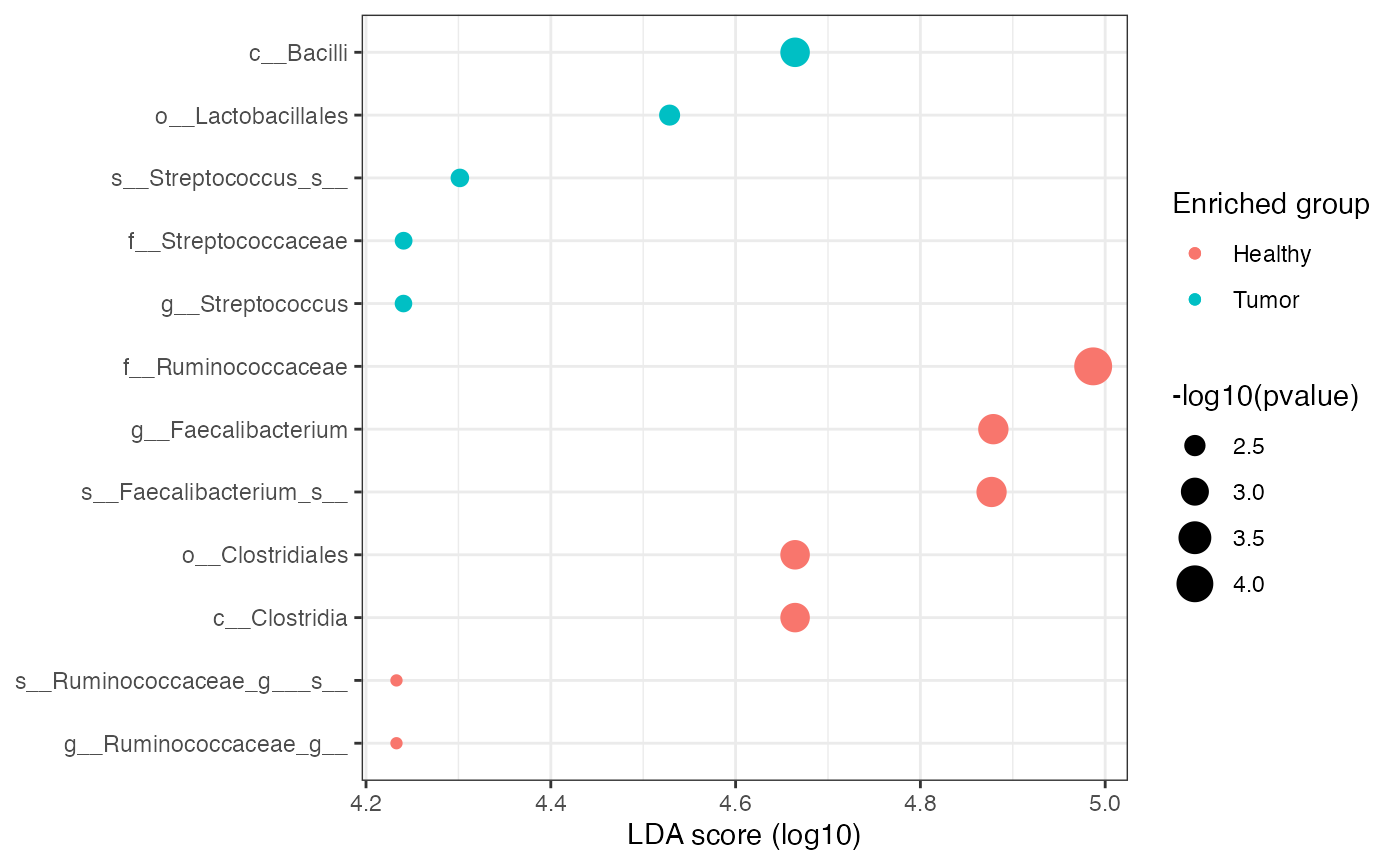
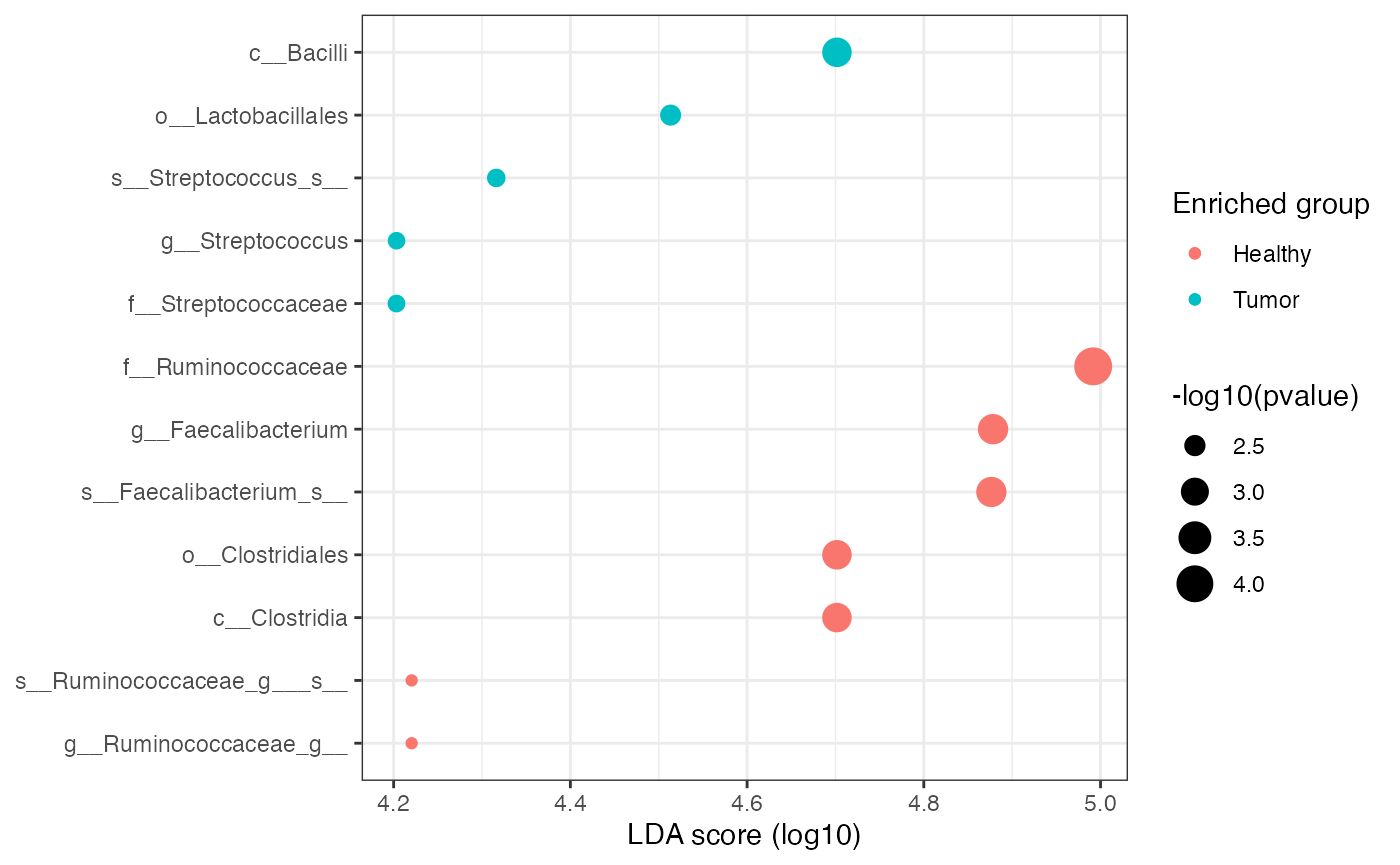
Built site for microbiomeMarker: 0.99.0@a800379

diff --git a/articles/microbiomeMarker-vignette.html b/articles/microbiomeMarker-vignette.html
@@ -440,12 +440,12 @@ fold-change between the sample and the reference.</li>
 <span class="co">#&gt; marker5                                                                k__Bacteria|p__Firmicutes|c__Clostridia|o__Clostridiales</span>
 <span class="co">#&gt; marker6                      k__Bacteria|p__Firmicutes|c__Clostridia|o__Clostridiales|f__Ruminococcaceae|g__Ruminococcaceae_g__</span>
 <span class="co">#&gt;         enrich_group   ef_lda       pvalue         padj</span>
-<span class="co">#&gt; marker1      Healthy 4.987011 7.154793e-05 7.154793e-05</span>
-<span class="co">#&gt; marker2      Healthy 4.878967 5.914547e-04 5.914547e-04</span>
-<span class="co">#&gt; marker3      Healthy 4.877018 6.043983e-04 6.043983e-04</span>
-<span class="co">#&gt; marker4      Healthy 4.664380 7.176046e-04 7.176046e-04</span>
-<span class="co">#&gt; marker5      Healthy 4.664380 7.176046e-04 7.176046e-04</span>
-<span class="co">#&gt; marker6      Healthy 4.232964 6.990210e-03 6.990210e-03</span></code></pre></div>
+<span class="co">#&gt; marker1      Healthy 4.991692 7.154793e-05 7.154793e-05</span>
+<span class="co">#&gt; marker2      Healthy 4.878362 5.914547e-04 5.914547e-04</span>
+<span class="co">#&gt; marker3      Healthy 4.876454 6.043983e-04 6.043983e-04</span>
+<span class="co">#&gt; marker4      Healthy 4.701696 7.176046e-04 7.176046e-04</span>
+<span class="co">#&gt; marker5      Healthy 4.701696 7.176046e-04 7.176046e-04</span>
+<span class="co">#&gt; marker6      Healthy 4.220377 6.990210e-03 6.990210e-03</span></code></pre></div>
 </div>
 <div id="supervised-machine-learning-methods" class="section level2">
 <h2 class="hasAnchor">
@@ -744,7 +744,7 @@ fold-change between the sample and the reference.</li>
 <span class="co">#&gt;  [95] bit64_4.0.5                 fs_1.5.0                   </span>
 <span class="co">#&gt;  [97] caTools_1.18.2              purrr_0.3.4                </span>
 <span class="co">#&gt;  [99] KEGGREST_1.32.0             ANCOMBC_1.2.2              </span>
-<span class="co">#&gt; [101] nlme_3.1-152                aplot_0.0.6                </span>
+<span class="co">#&gt; [101] nlme_3.1-152                aplot_0.0.7                </span>
 <span class="co">#&gt; [103] compiler_4.1.1              png_0.1-7                  </span>
 <span class="co">#&gt; [105] ggsignif_0.6.2              treeio_1.16.2              </span>
 <span class="co">#&gt; [107] tibble_3.1.4                geneplotter_1.70.0         </span>

diff --git a/reference/run_lefse.html b/reference/run_lefse.html
@@ -146,7 +146,7 @@
   bootstrap_fraction <span class='op'>=</span> <span class='fl'>2</span><span class='op'>/</span><span class='fl'>3</span>,
   wilcoxon_cutoff <span class='op'>=</span> <span class='fl'>0.05</span>,
   multigrp_strat <span class='op'>=</span> <span class='cn'>FALSE</span>,
-  correct <span class='op'>=</span> <span class='fu'><a href='https://rdrr.io/r/base/c.html'>c</a></span><span class='op'>(</span><span class='st'>"0"</span>, <span class='st'>"1"</span>, <span class='st'>"2"</span><span class='op'>)</span>,
+  strict <span class='op'>=</span> <span class='fu'><a href='https://rdrr.io/r/base/c.html'>c</a></span><span class='op'>(</span><span class='st'>"0"</span>, <span class='st'>"1"</span>, <span class='st'>"2"</span><span class='op'>)</span>,
   sample_min <span class='op'>=</span> <span class='fl'>10</span>,
   only_same_subgrp <span class='op'>=</span> <span class='cn'>FALSE</span>,
   curv <span class='op'>=</span> <span class='cn'>FALSE</span>
@@ -248,9 +248,9 @@ performed in a one-against one (more strict) or in a one-against all
 setting, default <code>FALSE</code>.</p></td>
     </tr>
     <tr>
-      <th>correct</th>
+      <th>strict</th>
       <td><p>multiple testing options, 0 for no correction (default), 1 for
-independent comparisons, 2 for independent comparison</p></td>
+independent comparisons, 2 for independent comparison.</p></td>
     </tr>
     <tr>
       <th>sample_min</th>
